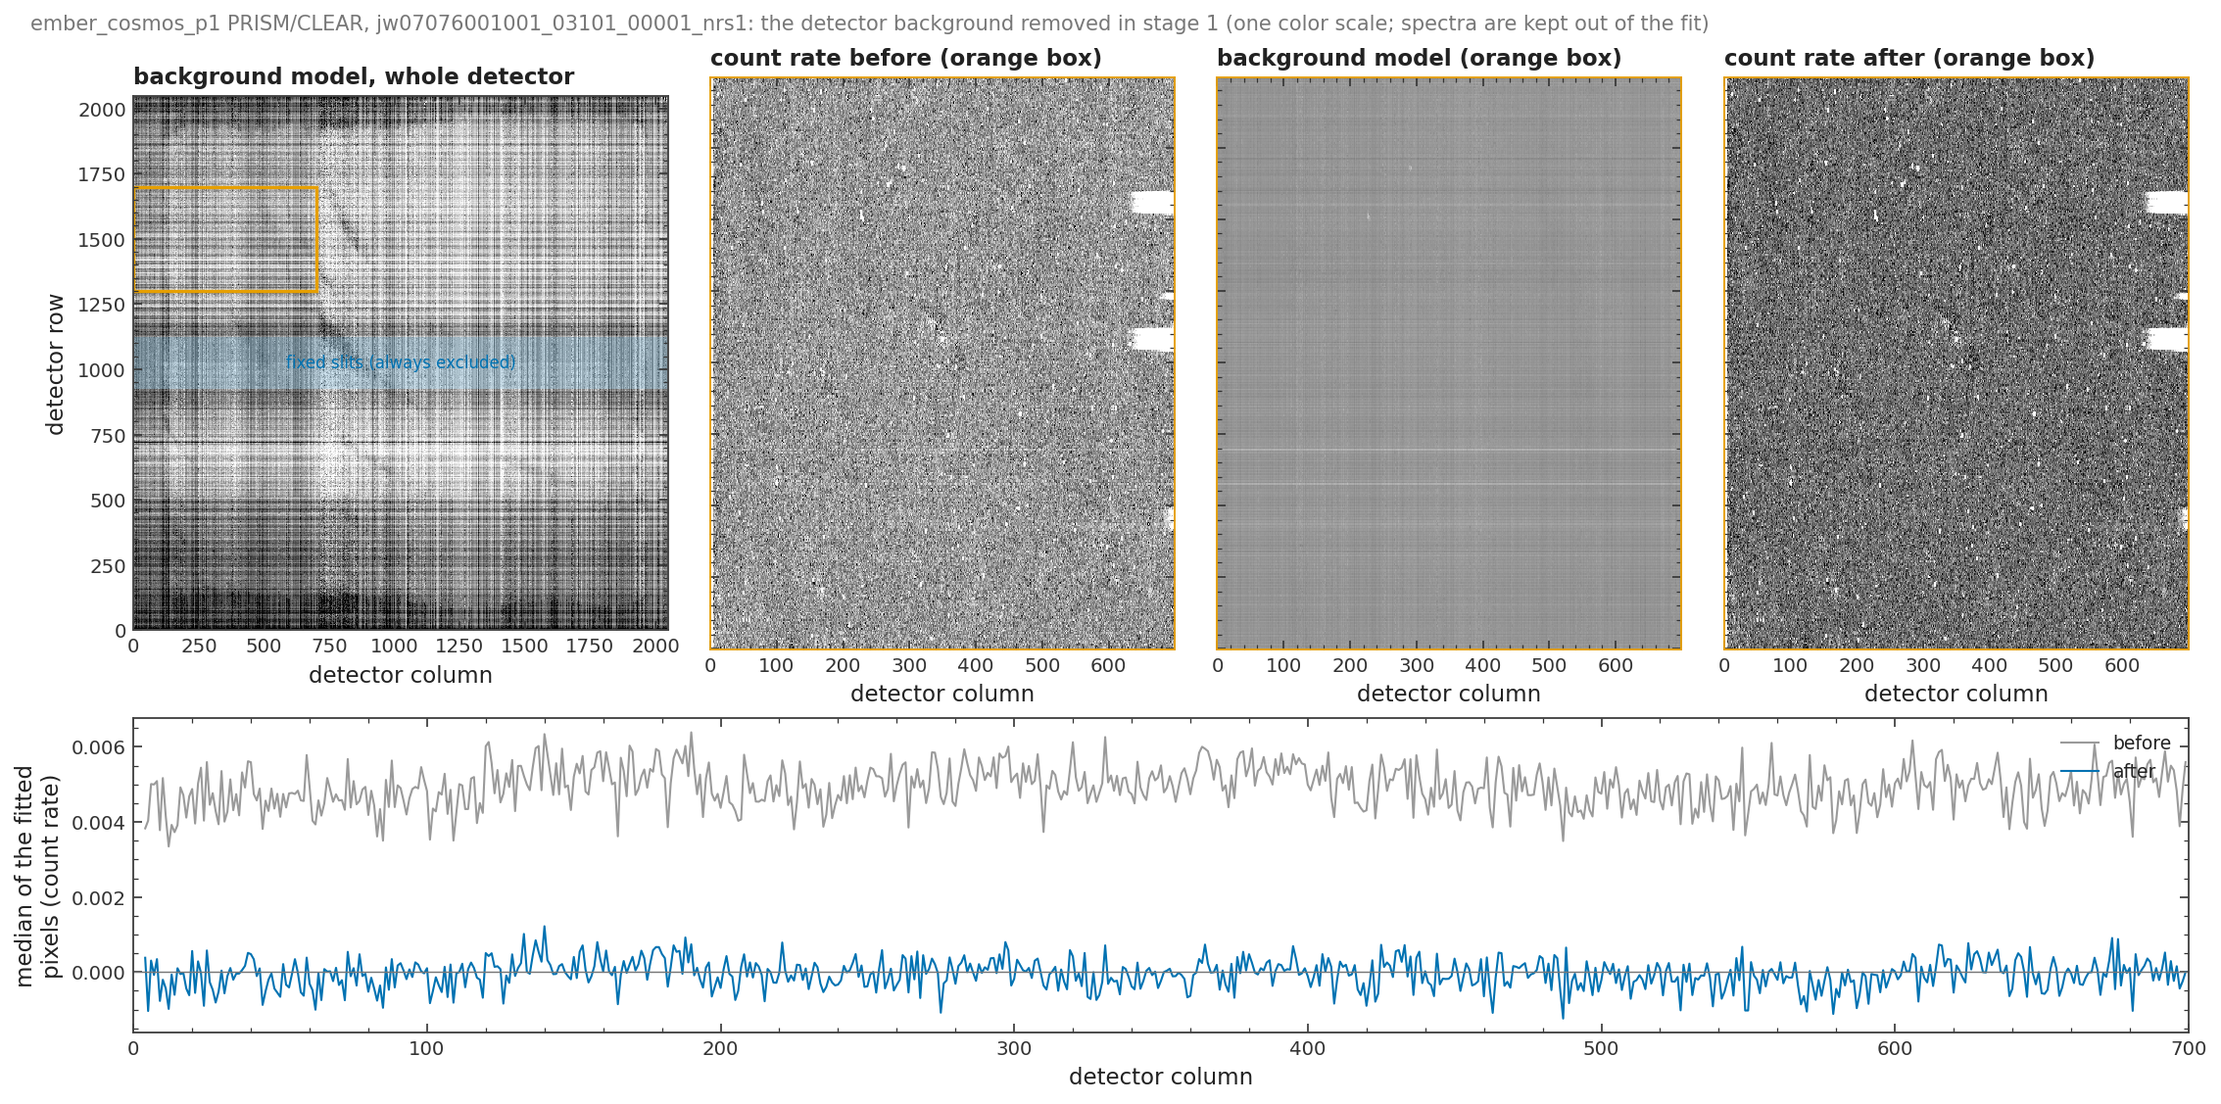
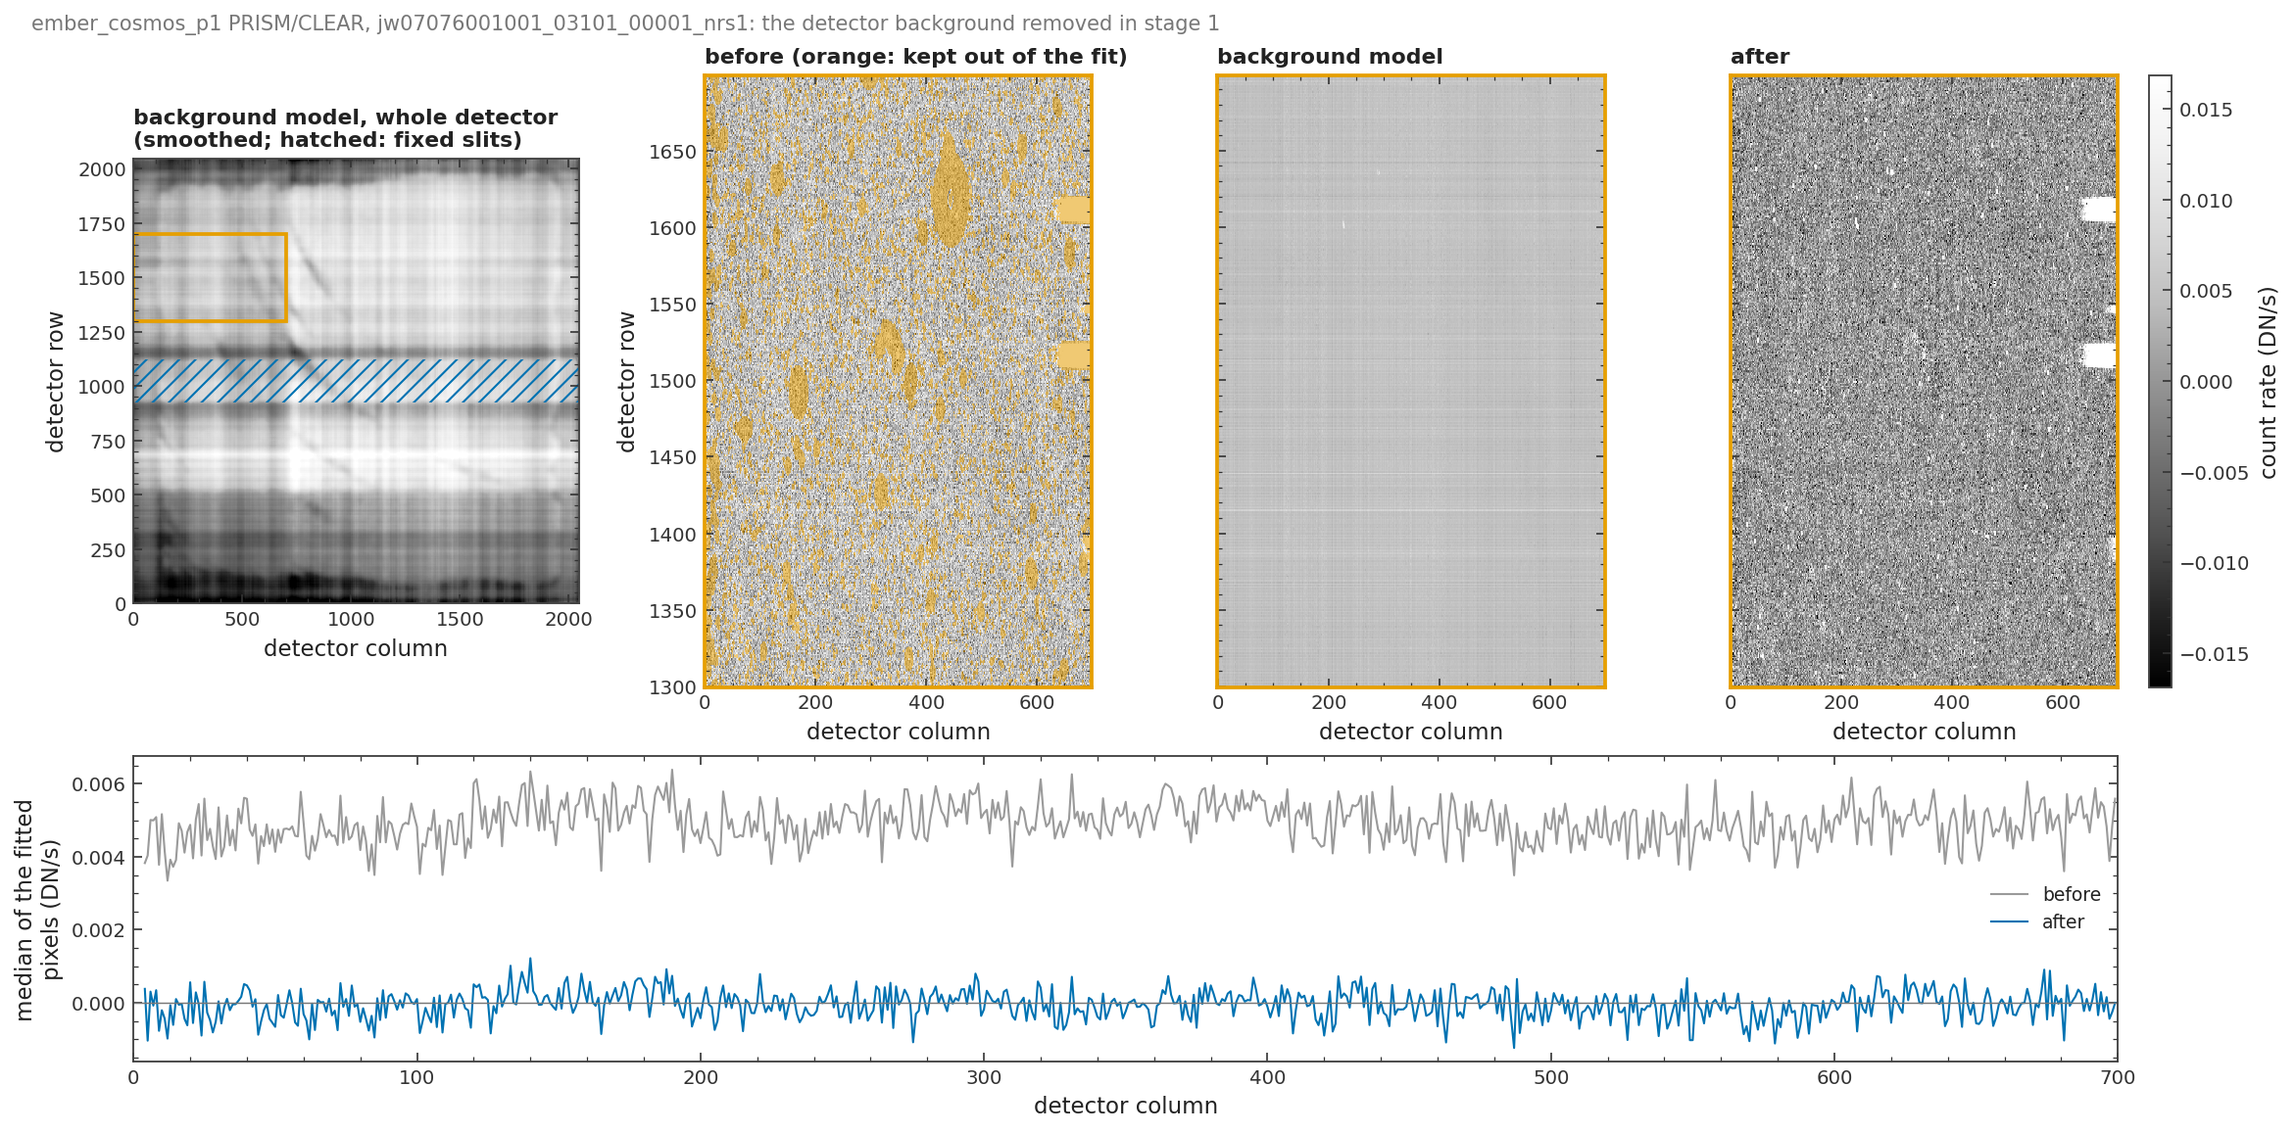
docs: detector and calibration page corrected after review; figure shows the mask and the picture frame
Claude-Session: https://claude.ai/code/session_019a5zAqWZLmp6Vb2WHQdrWE

diff --git a/scripts/docs/nirspec/fig_detector_background.py b/scripts/docs/nirspec/fig_detector_background.py
@@ -1,15 +1,16 @@
 """The detector's own background and 1/f noise, removed in stage 1.
 
 Before any spectrum is calibrated, stage 1 fits and subtracts the detector's background from each count-rate image:
-the "picture frame" (a pedestal pattern toward the detector edges, from jwst's reference, scaled in each quarter of
-the detector), 1/f noise along columns (and along rows for the PRISM), and optionally a smooth 2-D background. Every
-spectrum's footprint is kept out of the fit, so a source's light or the sky is never fitted as detector background.
-The rate file keeps both the background it subtracted (``CFBKG``) and the mask (``CFBKGMASK``).
+the "picture frame" (a pattern brighter toward the detector edges, from jwst's reference, scaled in each of four
+bands of 512 rows), 1/f stripes along columns (and along rows for the PRISM), and optionally a smooth 2-D
+background. Every spectrum's footprint is kept out of the fit, so a source's light or the astronomical background is
+never fitted as detector background. The rate file keeps both the background it subtracted (``CFBKG``) and the
+pixels the fit used (``CFBKGMASK``).
 
-Top: a region of the detector before, the background model, and after, on one color scale set by the empty pixels
-(spectra saturate). Bottom: the median of the pixels the fit used in each detector column of the region, before and
-after: the detector's offset goes to zero. jwst's flicker-noise cleaning runs first and removes most of the 1/f
-noise, so the column-to-column stripes left for this step are small.
+Top left: the background model over the whole detector, smoothed so that the large-scale pattern shows (the 1/f
+stripes are averaged away). Top right: a region of the detector before (pixels kept out of the fit tinted orange),
+the background model, and after, on one color scale centered on zero. Bottom: the median of the pixels the fit used
+in each detector column of the region, before and after: the detector's offset goes to zero.
 
     python scripts/docs/nirspec/fig_detector_background.py --root <root> --obs <obs> \
         --exposure jw07076001001_03101_00001_nrs1 --region 0 1300 700 400
@@ -20,11 +21,14 @@ p = C.parser(__doc__.splitlines()[0])
 p.add_argument('--exposure', required=True)
 p.add_argument('--region', type=int, nargs=4, default=[0, 1300, 700, 400], metavar=('X0', 'Y0', 'W', 'H'),
                help='detector region: first column, first row, width, height')
+p.add_argument('--smooth', type=int, default=33, help='median-filter box for the whole-detector panel (pixels)')
 args = p.parse_args()
 root = C.setup_root(args.root)
 
 import numpy as np                                                    # noqa: E402
 from astropy.io import fits                                           # noqa: E402
+from matplotlib.patches import Rectangle                              # noqa: E402
+from scipy.ndimage import median_filter                               # noqa: E402
 
 with fits.open(C.rate_file(C.workspace(root, args.obs), args.exposure)) as h:
     after = np.asarray(h['SCI'].data, float)
@@ -35,39 +39,47 @@ with fits.open(C.rate_file(C.workspace(root, args.obs), args.exposure)) as h:
 x0, y0, w, hgt = args.region
 sl = (slice(y0, y0 + hgt), slice(x0, x0 + w))
 bad = (dq & 1) > 0
-full_model = bkg.copy()
+smooth_model = median_filter(bkg, args.smooth, mode='nearest')
 before = np.where(bad, np.nan, after + bkg)[sl]
 after = np.where(bad, np.nan, after)[sl]
 model = bkg[sl]
 used = mask[sl]
-med = np.nanmedian(before[used])
-mad = 1.4826 * np.nanmedian(np.abs(before[used] - med))
-vmin, vmax = med - 4 * mad, med + 4 * mad
+mad = 1.4826 * np.nanmedian(np.abs(after[used] - np.nanmedian(after[used])))
+v = 4 * mad
 extent = [x0 - 0.5, x0 + w - 0.5, y0 - 0.5, y0 + hgt - 0.5]
 
 plt = C.style()
-from matplotlib.patches import Rectangle                              # noqa: E402
-fig = plt.figure(figsize=(15, 7.4), constrained_layout=True)
-gs = fig.add_gridspec(2, 4, height_ratios=[1.0, 0.55], width_ratios=[1.15, 1, 1, 1])
+fig = plt.figure(figsize=(15.5, 7.6), constrained_layout=True)
+gs = fig.add_gridspec(2, 5, height_ratios=[1.0, 0.5], width_ratios=[1.15, 1, 1, 1, 0.06])
 ax = fig.add_subplot(gs[0, 0])
-lo, hi = np.nanpercentile(full_model, [1, 99])
-ax.imshow(full_model, cmap='Greys_r', vmin=lo, vmax=hi, origin='lower')
-ax.add_patch(Rectangle((x0, y0), w, hgt, fill=False, ec=C.PALETTE[1], lw=1.6))
-ax.axhspan(924, 1124, color=C.PALETTE[0], alpha=0.18, lw=0)
-ax.text(1024, 1024, 'fixed slits (always excluded)', ha='center', va='center', fontsize=8, color=C.PALETTE[0])
-ax.set_title('background model, whole detector', fontsize=11)
+lo, hi = np.nanpercentile(smooth_model, [0.5, 99.5])
+ax.imshow(smooth_model, cmap='Greys_r', vmin=lo, vmax=hi, origin='lower')
+ax.add_patch(Rectangle((x0, y0), w, hgt, fill=False, ec=C.PALETTE[1], lw=1.8))
+ax.axhspan(924, 1124, fill=False, hatch='///', ec=C.PALETTE[0], lw=0)
+ax.set_title('background model, whole detector\n(smoothed; hatched: fixed slits)', fontsize=10.5)
 ax.set_xlabel('detector column')
 ax.set_ylabel('detector row')
-for k, (img, title) in enumerate(((before, 'count rate before'), (model, 'background model'),
-                                  (after, 'count rate after'))):
+
+tint = np.zeros(used.shape + (4,))
+tint[~used] = (0.90, 0.62, 0.0, 0.55)
+for k, (img, title) in enumerate(((before, 'before (orange: kept out of the fit)'), (model, 'background model'),
+                                  (after, 'after'))):
     ax = fig.add_subplot(gs[0, k + 1])
-    ax.imshow(img, cmap='Greys_r', vmin=vmin, vmax=vmax, extent=extent, aspect='auto', origin='lower')
-    ax.set_title(title + ' (orange box)', fontsize=11)
+    im = ax.imshow(img, cmap='Greys_r', vmin=-v, vmax=v, extent=extent, aspect='auto', origin='lower')
+    if k == 0:
+        ax.imshow(tint, extent=extent, aspect='auto', origin='lower', interpolation='nearest')
+        ax.set_ylabel('detector row')
+    else:
+        ax.set_yticklabels([])
+    ax.set_title(title, fontsize=10.5)
     for s in ax.spines.values():
         s.set_edgecolor(C.PALETTE[1])
+        s.set_linewidth(1.8)
     ax.set_xlabel('detector column')
-    ax.set_yticklabels([])
-ax = fig.add_subplot(gs[1, :])
+cb = fig.colorbar(im, cax=fig.add_subplot(gs[0, 4]))
+cb.set_label('count rate (DN/s)')
+
+ax = fig.add_subplot(gs[1, :4])
 cols = np.arange(x0, x0 + w)
 for img, color, label in ((before, '#9a9a9a', 'before'), (after, C.PALETTE[0], 'after')):
     m = np.array([np.nanmedian(img[used[:, j], j]) if used[:, j].sum() > 20 else np.nan for j in range(w)])
@@ -75,8 +87,8 @@ for img, color, label in ((before, '#9a9a9a', 'before'), (after, C.PALETTE[0], '
 ax.axhline(0, color=C.MUTED, lw=0.7)
 ax.set_xlim(x0, x0 + w)
 ax.set_xlabel('detector column')
-ax.set_ylabel('median of the fitted\npixels (count rate)')
-ax.legend(loc='upper right', fontsize=9)
-fig.suptitle(f'{args.obs} {grating}, {args.exposure}: the detector background removed in stage 1 (one color '
-             'scale; spectra are kept out of the fit)', x=0.01, ha='left', fontsize=10, color=C.MUTED)
+ax.set_ylabel('median of the fitted\npixels (DN/s)')
+ax.legend(loc='center right', fontsize=9, framealpha=0.9)
+fig.suptitle(f'{args.obs} {grating}, {args.exposure}: the detector background removed in stage 1',
+             x=0.01, ha='left', fontsize=10, color=C.MUTED)
 C.save(fig, args, 'detector_background.png')

diff --git a/web/lib/docs/content/reduction/nirspec/detector-calibration.md b/web/lib/docs/content/reduction/nirspec/detector-calibration.md
@@ -1,57 +1,75 @@
 # Detector and calibration
 
-This page covers the first two steps of the [NIRSpec pipeline](/docs/reduction/nirspec): turning the raw detector ramps into count-rate images, and turning those into calibrated 2-D spectra, one per source and exposure. Most of this is the standard `jwst` pipeline. CAMPFIRE adds one thing of its own here: it removes the detector's own background before any spectrum is calibrated.
+This page covers the first two steps of the [NIRSpec pipeline](/docs/reduction/nirspec): turning the raw detector ramps into count-rate images, and turning those into calibrated 2-D spectra, one per source and exposure. Most of this is the standard `jwst` pipeline, with the CRDS reference files for the flat fields, the wavelength solution and the flux calibration. CAMPFIRE adds one step of its own here: it removes the detector's own background before any spectrum is calibrated.
 
 ## From ramps to count rates
 
-`jwst`'s detector-level pipeline (`Detector1Pipeline`) fits each pixel's ramp and writes a count-rate image per exposure and detector. Its 1/f cleaning (`clean_flicker_noise`) is on and runs inside this step.
+`jwst`'s detector-level pipeline (`Detector1Pipeline`) fits each pixel's ramp and writes a count-rate image per exposure and detector. Two of its settings differ from the defaults:
+
+- the 1/f cleaning (`clean_flicker_noise`) is on, with the science regions masked;
+- the jump step expands the flagged area around large cosmic-ray events (`expand_large_events`).
 
 ## The detector's own background
 
-A NIRSpec count-rate image is not zero where no light falls. The detector adds a pattern of its own: a "picture frame" that is brighter toward the edges, an offset that differs between the four quarters of the detector, and stripes along rows and columns from 1/f noise that the `jwst` cleaning does not fully remove. This light comes from the detector, not the sky, so it must be removed before the spectra are cut out and calibrated.
+A NIRSpec count-rate image is not zero where no light falls. The detector adds a signal of its own:
 
-![Stage 1 background subtraction for one PRISM exposure. Left: the background model over the whole detector. The diagonal and edge structure is the picture frame; the fine stripes are 1/f noise. The orange box marks the region shown in the next three panels: the count rate before, the background model, and the count rate after, all on one color scale. Bottom: the median of the empty pixels in each column of that region, before (gray) and after (blue). The detector's offset is removed.](/docs/nirspec/detector_background.png)
+- a "picture frame": darker edges and faint diagonal lines, the same pattern in every exposure, with an offset that differs between bands of the detector;
+- 1/f noise: slow drifts of the readout electronics, seen as stripes along columns and rows. The `jwst` cleaning removes most of it, but not all.
+
+This signal comes from the detector, not from the astronomical background, so it must be removed before the spectra are cut out and calibrated.
+
+![Stage 1 background subtraction for one PRISM exposure. Left: the background model over the whole detector, smoothed so that the large-scale pattern shows. The dark edges and diagonal lines are the picture frame, from the CRDS reference. The orange box marks the region in the next three panels: the count rate before (pixels kept out of the fit tinted orange: spectra, and patches of faint light found by the clipping), the background model, and the count rate after, on one color scale centered on zero. Bottom: the median of the fitted pixels in each column of the region, before (gray) and after (blue). The detector's offset is removed.](/docs/nirspec/detector_background.png)
 
 CAMPFIRE fits this background to the pixels that receive no light, and subtracts it from the whole image. Pixels that do receive light are kept out of the fit:
 
-- every open shutter's spectrum, mapped from the MSA plan, extended past the nominal wavelength range of the gratings so that higher-order light is also kept out;
+- every open shutter's spectrum, mapped from the MSA plan, including shutters known to have failed open. Each spectrum's footprint runs past the grating's nominal wavelength range, to cover light that falls beyond it (table below);
 - the band of the detector behind the fixed slits;
-- bad pixels, and any regions masked by hand in `observations.toml` (see [Masking by hand](#masking-by-hand));
+- any pixel with a data-quality flag, including regions masked by hand (see [Masking by hand](#masking-by-hand));
 - in each pass, pixels more than two standard deviations above the background, so that faint light the map missed is not fitted as background.
+
+| Grating | Footprint kept out of the fit (µm) |
+|---|---|
+| G140M, G140H | 0.70 to 2.5 |
+| G235M, G235H | 1.66 to 4.0 |
+| G395M, G395H | 2.87 to 5.5 |
 
 The background model has these parts, fitted in turn:
 
 | Part | How it is fitted |
 |---|---|
-| Picture frame | The CRDS picture-frame reference, scaled and offset separately in each quarter of the detector |
+| Picture frame | The CRDS picture-frame reference, scaled and offset separately in each of four horizontal bands of 512 rows |
 | Column stripes (1/f) | In each column, the picture-frame shape scaled and offset to that column |
 | Row stripes (1/f) | The median of each row; PRISM only |
 | Smooth 2-D background | Off by default (`subtract_2d = false`) |
 
-The fit is repeated five times. Each pass refits every part on what the previous passes left, with the mask of bright pixels updated each time.
+The fit is repeated five times. Each pass refits every part on what the previous passes left, with the mask of bright pixels updated each time. Where CRDS has no picture-frame reference, that part is skipped and each column's stripe is its median.
 
 After the subtraction, the scatter of the empty pixels is compared with the read noise `jwst` predicts for them, and the read-noise variance is scaled to match. The count-rate file keeps the background it subtracted (`CFBKG`), the pixels the fit used (`CFBKGMASK`) and the variance factor (`CFBKGRMS`), so the step can be checked and undone.
 
 ### Masking by hand
 
-Some exposures have features no automatic mask catches, for example light scattered onto the detector from a bright source outside the MSA. These can be outlined by hand as DS9 polygons, stored with the observation in `observations.toml`. Masked pixels are flagged `DO_NOT_USE`: they are kept out of the background fit and out of everything that follows. Changing a mask re-runs the background subtraction from the original count rate.
+Some exposures have features no automatic mask catches, for example light scattered onto the detector from a bright source outside the MSA. These are outlined by hand as DS9 polygons, one file per exposure under `reference/nirspec/<observation>/masks/`, drawn in the portal's mask editor or with `cfpipe nirspec mask edit`. Masked pixels are flagged `DO_NOT_USE`: they are kept out of the background fit and out of everything that follows. Changing a mask re-runs the background subtraction from the original count rate.
 
 ## From count rates to calibrated 2-D spectra
 
-Stage 2a runs `jwst`'s spectroscopic pipeline (`Spec2Pipeline`) once per count-rate file, for every source in it at once. It assigns the world coordinates and wavelengths, cuts out each shutter's 2-D spectrum, flat-fields it and converts it to flux density. Each source's cutout is then written to its own file.
+Stage 2a runs `jwst`'s spectroscopic pipeline (`Spec2Pipeline`) once per count-rate file, for every source in it at once. It assigns the world coordinates and wavelengths, flags the light from shutters known to have failed open, cuts out each shutter's 2-D spectrum, corrects the wavelengths for the source's position across the shutter, flat-fields it and converts it to flux density. Each source's cutout is then written to its own file.
 
-Four `jwst` steps are skipped, because CAMPFIRE does them itself later:
+Every source is calibrated as a point source (`set_stellarity = 1.0`), at its planned position in the shutter. Stage 3 keeps `jwst`'s point-source path loss across the shutter, and replaces it along the slit with the [optics model](/docs/reduction/nirspec/slit-losses)'s loss for the source's fitted size and position.
 
-| Skipped `jwst` step | Done instead by |
+Some `jwst` steps are skipped or moved, because CAMPFIRE does them later or differently:
+
+| `jwst` step | What happens instead |
 |---|---|
-| Background subtraction (`bkg_subtract`) | [Nod subtraction and the master background](/docs/reduction/nirspec/backgrounds) |
-| Bar shadow (`barshadow`) | The [optics model](/docs/reduction/nirspec/slit-losses) |
-| Resampling to a rectified grid (`resample_spec`) | CAMPFIRE's own rectification, after the background subtraction |
+| Background subtraction (`bkg_subtract`), master background (`master_background_mos`) | [Nod subtraction and CAMPFIRE's master background](/docs/reduction/nirspec/backgrounds) |
+| Bar shadow (`barshadow`) | Part of the [optics model](/docs/reduction/nirspec/slit-losses) |
+| Resampling to a rectified grid (`resample_spec`) | Still `jwst`, but after the background subtraction: in Stage 2b for each exposure, and in Stage 3 for the combined spectrum |
 | 1-D extraction (`extract_1d`) | The [profile extraction](/docs/reduction/nirspec/extraction) |
 
-`jwst` calibrates every source as a point source at its planned position. CAMPFIRE's optics model in Stage 3 then replaces `jwst`'s point-source path loss with one for the source's fitted size and position.
+Stage 2a also does three things around the `jwst` call, described on the [backgrounds](/docs/reduction/nirspec/backgrounds) page:
 
-Before the calibration, Stage 2a also finds shutters that were commanded open but stayed closed, so that `jwst` does not cut out a spectrum where no light came through. That, and the measurement of the background spectrum from the empty shutters, are on the [backgrounds](/docs/reduction/nirspec/backgrounds) page.
+- before it, it finds shutters that were commanded open but stayed closed, so that `jwst` does not extract a shutter that passed no light;
+- it extracts the planned background shutters as well, calibrated for uniform light;
+- after it, it measures the background spectrum from every empty shutter and builds the master background.
 
 ### Options that change the calibration
 
@@ -60,4 +78,4 @@ Two options replace `jwst` reference files at this stage. Both are off by defaul
 | Option | What it does |
 |---|---|
 | `[nirspec.stage2] empirical_wavecorr = true` | Adds the wavelength zero-point correction measured by JADES (Scholtz et al. 2025) to `jwst`'s correction for the source's position across the shutter |
-| `[nirspec.stage2] extend_g140m_g235m = true` | Extends G140M/F100LP and G235M/F170LP past their nominal red limit, where the next order overlaps, with flats, wavelength ranges and flux calibration derived for that range. The Stage 1 mask is widened to match, so the extended light is not fitted as background |
+| `[nirspec.stage2] extend_g140m_g235m = true` | Extends G140M/F100LP and G235M/F170LP to 5.3 µm, past the red limit of the CRDS reference files, with flats and wavelength ranges made on the fly and a flux calibration derived once against the SPURS program. The Stage 1 footprints are widened to match, so the extended light is not fitted as background |
